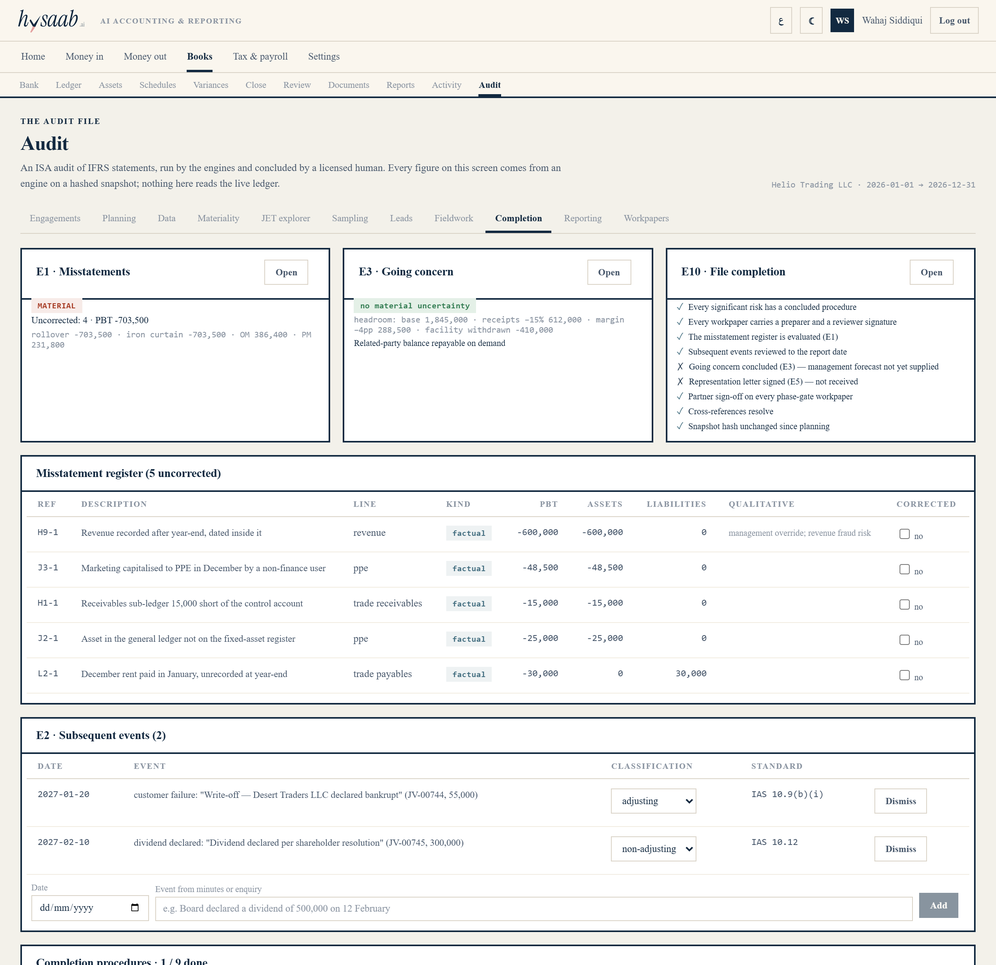
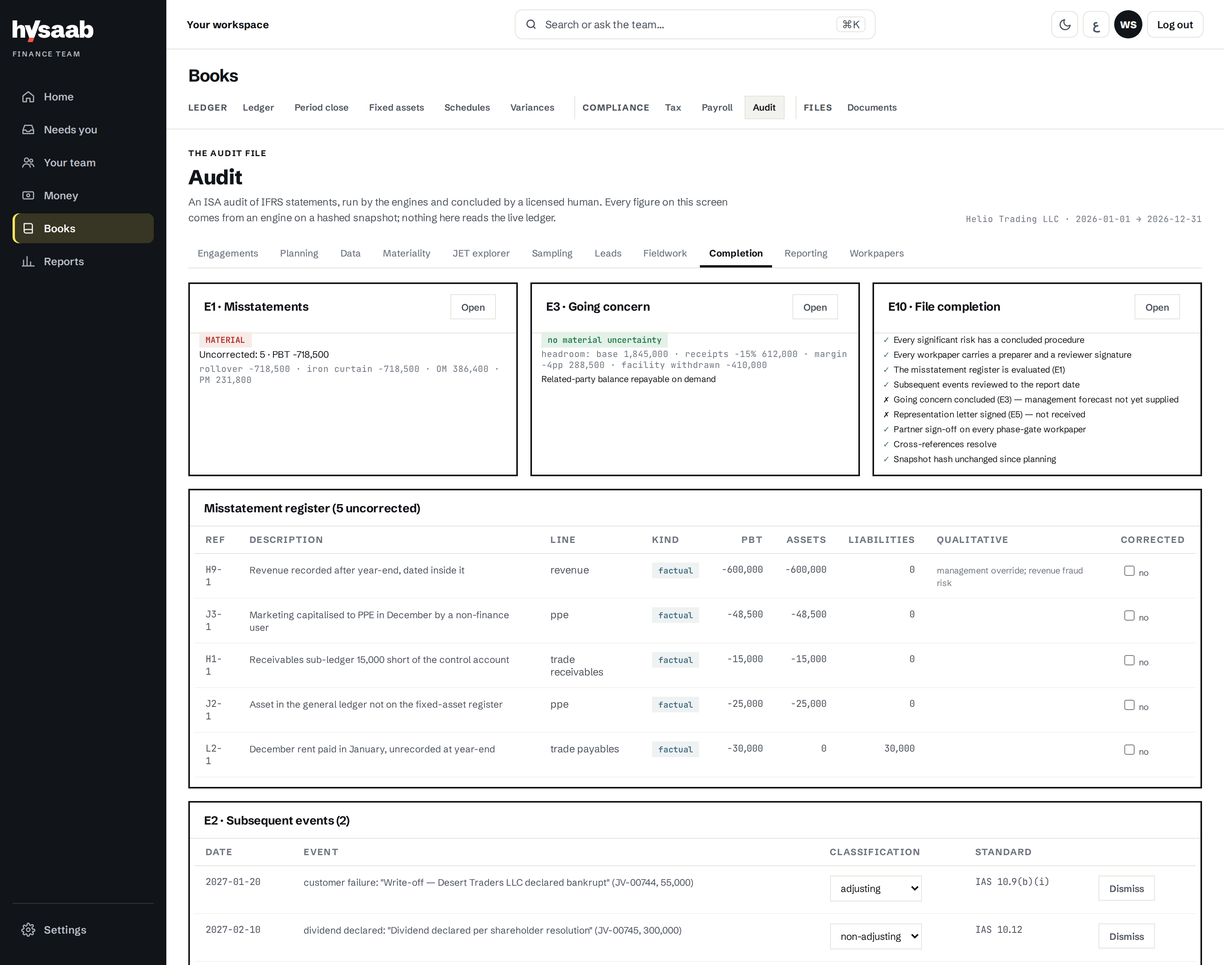
Product screenshots in Tick & Tie, invoice photo, independence wording (#3)
* Invoice photo in the chat, Practice screen reskinned, independence wording

- Homepage: Rashid's WhatsApp bubble showed a hatched "INV-4471 · photo"
  placeholder. It now shows a photo of the Gulf Technical Supplies tax
  invoice (public/home/inv-4471-photo.jpg), drawn from the Demo's own
  figures: 3,200 + 640 + 150 = 3,990.00, VAT 5% 199.50, total 4,189.50.
- p-practice.png: the Hysaab Practice firm overview in Tick & Tie (ink
  sidebar, highlighter accents, Hysaab Grotesk/Mono), same layout, labels
  and sample figures as before.
- /firms (en + ar): no longer says Practice and Audit share "the same
  clients, the same file room"; each keeps its own client records and the
  firm's independence rules decide who works on which client.

Claude-Session: https://claude.ai/code/session_01QfKEbqKpFncXbPW1S3saiE

* Product screenshots in Tick & Tie: audit, finance and captions

Every product capture on the site now shows the rebranded app (ink,
highlighter, Hysaab Grotesk/Mono), rendered from the app itself with its
built-in sample data:
- Audit (public/shots/audit-*.png, home/screens/p-audit-jet.png): the
  real audit module fed the Helio Trading demo engagement. /audit shot
  sizes updated. The completion card now agrees with its register (5
  uncorrected, PBT -718,500) and the planning gate no longer contradicts
  the approved risk register.
- Finance (home/screens 00-05, f-01..f-05, p-payables, p-close,
[…]

diff --git a/app/(en)/audit/page.tsx b/app/(en)/audit/page.tsx
@@ -31,7 +31,7 @@ const STEPS: {
       ["Sequence", <>Missing journal numbers are listed as gaps for the client to explain.</>],
       ["Hashed", <>SHA-256 on the snapshot. Every later figure cites the hash it came from.</>],
     ],
-    shot: { src: "/shots/audit-data.png", w: 2560, h: 1256, alt: "Hysaab Audit snapshots: the first pull marked STOP for a broken general-ledger roll-forward, the corrected pull marked complete, both with their SHA-256 hashes" },
+    shot: { src: "/shots/audit-data.png", w: 2940, h: 1256, alt: "Hysaab Audit snapshots: the first pull marked STOP for a broken general-ledger roll-forward, the corrected pull marked complete, both with their SHA-256 hashes" },
     bar: "Data · snapshots and integrity",
     cap: "The first snapshot stopped the file: the client's trial balance predated a journal in the ledger.",
   },
@@ -44,7 +44,7 @@ const STEPS: {
       ["Materiality", <>Computed from this year's figures, with every candidate benchmark shown and the choice explained.</>],
       ["The programme", <>Only the procedures that fit the chart are instantiated. No tax recompute where there is no tax account.</>],
     ],
-    shot: { src: "/shots/audit-planning.png", w: 2540, h: 2360, alt: "Hysaab Audit planning: phase strip, the B6 risk register with nine significant risks by line and assertion, and the planning procedures with their last run" },
+    shot: { src: "/shots/audit-planning.png", w: 2920, h: 2360, alt: "Hysaab Audit planning: phase strip, the B6 risk register with nine significant risks by line and assertion, and the planning procedures with their last run" },
     bar: "Planning · risk register and procedures",
     cap: "Nine significant risks, each with the factor that raised it. The gate stays shut until the partner approves.",
   },
@@ -57,7 +57,7 @@ const STEPS: {
       ["Thirty criteria", <>Post-close postings, round numbers, weekends and holidays, blank narratives, seldom-used accounts, keyword hits, duplicates, reversals, segregation conflicts, entries just below an approval threshold.</>],
       ["Auditable", <>Each row carries the criteria that flagged it. The selection is seeded, so it reproduces.</>],
     ],
-    shot: { src: "/shots/audit-jet.png", w: 2540, h: 2360, alt: "Hysaab Audit journal-entry testing: every journal scored against thirty criteria, stratified above performance materiality, scored and random, with the criteria hits and vouching result on each row" },
+    shot: { src: "/shots/audit-jet.png", w: 2920, h: 2360, alt: "Hysaab Audit journal-entry testing: every journal scored against thirty criteria, stratified above performance materiality, scored and random, with the criteria hits and vouching result on each row" },
     bar: "JET explorer · ISA 240 journal testing",
     cap: "The top rows are the planted ones: revenue booked after year-end, a suspense plug, a duplicate payment, a capitalised expense, a related-party fee.",
   },
@@ -70,7 +70,7 @@ const STEPS: {
       ["Attribute too", <>Control testing at ninety-five percent confidence with its own sample table.</>],
       ["Honest answer", <>An upper limit above performance materiality is reported as not accepted, not explained away.</>],
     ],
-    shot: { src: "/shots/audit-sampling.png", w: 2540, h: 2360, alt: "Hysaab Audit sampling workbench: monetary-unit sample design, the selection with top stratum and sampled items, audited values entered, and the evaluation with the upper misstatement limit" },
+    shot: { src: "/shots/audit-sampling.png", w: 2920, h: 2360, alt: "Hysaab Audit sampling workbench: monetary-unit sample design, the selection with top stratum and sampled items, audited values entered, and the evaluation with the upper misstatement limit" },
     bar: "Sampling · monetary-unit sample",
     cap: "Upper limit 563,355 against performance materiality 231,800. The engine calls it: not accepted.",
   },
@@ -83,7 +83,7 @@ const STEPS: {
       ["Reliability", <>Scored by route and sender domain. A forwarded reply is evidence of a different grade.</>],
       ["Sent by people", <>Letters leave the firm's own mailbox. The software drafts them and tracks them.</>],
     ],
-    shot: { src: "/shots/audit-fieldwork.png", w: 2540, h: 2360, alt: "Hysaab Audit fieldwork: the confirmation tracker with book and confirmed balances, reliability and status, and the information request list with owners, due dates and received status" },
+    shot: { src: "/shots/audit-fieldwork.png", w: 3120, h: 2360, alt: "Hysaab Audit fieldwork: the confirmation tracker with book and confirmed balances, reliability and status, and the information request list with owners, due dates and received status" },
     bar: "Fieldwork · confirmations and requests",
     cap: "One exception of 42,750, one reply routed through the client, one escalated to alternative procedures.",
   },
@@ -96,7 +96,7 @@ const STEPS: {
       ["Subsequent events", <>Post-period journals and minutes are scanned and classified adjusting or non-adjusting, with the IAS 10 reference.</>],
       ["File completion", <>Nine checks on the file itself. Two are still open on this engagement, and it says so.</>],
     ],
-    shot: { src: "/shots/audit-completion.png", w: 2540, h: 2460, alt: "Hysaab Audit completion: the misstatement register evaluated against materiality on both bases, going concern with stress headroom, file completion checks, and the subsequent events classified under IAS 10" },
+    shot: { src: "/shots/audit-completion.png", w: 3120, h: 2460, alt: "Hysaab Audit completion: the misstatement register evaluated against materiality on both bases, going concern with stress headroom, file completion checks, and the subsequent events classified under IAS 10" },
     bar: "Completion · the misstatement register",
     cap: "Five findings, four above clearly trivial, one aggregate the partner has to act on.",
   },
@@ -109,7 +109,7 @@ const STEPS: {
       ["Versions", <>Immutable. The reason for every new version is on the paper.</>],
       ["Conclusions", <>A reviewer cannot sign a judgement workpaper without recording a conclusion in their own words.</>],
     ],
-    shot: { src: "/shots/audit-workpapers.png", w: 2540, h: 2460, alt: "Hysaab Audit workpaper file: twenty-one workpapers with their review state, and the trade receivables lead schedule open with tick marks, the sub-ledger difference and an inconclusive conclusion" },
+    shot: { src: "/shots/audit-workpapers.png", w: 2920, h: 2460, alt: "Hysaab Audit workpaper file: twenty-one workpapers with their review state, and the trade receivables lead schedule open with tick marks, the sub-ledger difference and an inconclusive conclusion" },
     bar: "Workpapers · the audit file",
     cap: "The receivables lead is inconclusive because the sub-ledger is 15,000 short. It stays inconclusive until someone explains it.",
   },
@@ -270,7 +270,7 @@ export default function AuditPage() {
               <p className="hw-eyebrow">Where it sits</p>
               <h2>Part of the professional services stack.</h2>
             </div>
-            <p>Hysaab Audit can be bought on its own, or with <a href="/firms">Hysaab Practice</a>, our product for tax and advisory firms. Together they share the same clients, the same file room and the same rule that the AI proposes and a person decides.</p>
+            <p>Hysaab Audit can be bought on its own, or with <a href="/firms">Hysaab Practice</a>, our product for tax and advisory firms. Both follow the same rule: the AI proposes and a person decides. Each keeps its own client records, so your independence rules decide who works on which client.</p>
           </div>
           <div className="hw-cards">
             <article>

diff --git a/lib/home-moments.ts b/lib/home-moments.ts
@@ -84,11 +84,11 @@ export const MOMENTS: MomentDef[] = [
     tabBody: "If a treatment looks wrong, Hysaab explains the concern and recommends a better route.",
     title: "A colleague who asks you to think twice.",
     description: "When a coding falls below the confidence gate, a tax invoice fails the rules or a price creeps, Hysaab stops and brings it to you with its reasoning.",
-    caption: "Decisions required, sample data: a coding questioned against the supplier’s history, input VAT held until an invoice is corrected, and a price rise with no contract change on file.",
-    alt: "Hysaab decisions queue with four items: two missing periods for a recurring supplier, a coding below the confidence threshold where history suggests a different account, a tax invoice that omits the supplier TRN so input VAT is blocked, and a detected price increase. Each shows the agent, a confidence score and buttons to open the queue or the detail.",
+    caption: "The review queue, sample data: four decisions with the agent that raised each and its confidence, one open: input VAT held until the supplier corrects its invoice.",
+    alt: "Hysaab review queue with four decisions: two periods missing for a recurring supplier, a coding below the confidence threshold, tax invoice criteria not met, and price creep detected, each with its agent and confidence. The tax invoice decision is open: Almarai Catering INV-5512 omits the supplier TRN, so input VAT of AED 1,036 is blocked until corrected, with a box for the reviewer’s reasoning.",
     pending: "Workspace capture pending: the decisions queue.",
     focus: "f-03-second-opinion.png",
-    notice: "Notice a coding questioned against the supplier’s own history, and input VAT held until the invoice is corrected.",
+    notice: "Notice each decision carries the agent and its confidence, and the open one holds input VAT until the invoice is corrected.",
   },
   {
     key: "record", num: "04", file: "04-app-journal-why.png", channel: WORKSPACE,
@@ -105,14 +105,14 @@ export const MOMENTS: MomentDef[] = [
   {
     key: "position", num: "05", file: "05-app-position.png", channel: WORKSPACE,
     tabTitle: "See where you stand.",
-    tabBody: "Ask in plain words, or read cash, payables, receivables, VAT and runway at a glance.",
+    tabBody: "Ask the team in plain words, or read cash, decisions and bills due at a glance.",
     title: "The picture, in plain words.",
-    description: "The Today screen opens with a question box and the position that matters: cash, working capital, revenue, payables due, overdue receivables, VAT, runway and burn.",
-    caption: "The Today screen, sample data: the plain-language question box and the eight position tiles.",
-    alt: "Hysaab Today screen: a box asking “What do you want to know?” with suggested questions, above eight tiles for cash position, net working capital, revenue month to date, payables due in 30 days, receivables overdue, VAT position, runway and net burn.",
-    pending: "Workspace capture pending: the Today screen.",
+    description: "Home opens on what needs you: cash, the decisions waiting and the bills due, then where the month’s cash came from and went.",
+    caption: "The Home screen, sample data: cash, decisions and bills due in 30 days, and June’s cash: AED 612k in, AED 442k out.",
+    alt: "Hysaab Home screen: tiles for cash of AED 1.4m, up 14% on last month, four decisions with two critical, and AED 216k due in 30 days with two bills overdue; below, a chart of June from AED 1.23m at the start, AED 612k in and AED 442k out, to AED 1.4m now.",
+    pending: "Workspace capture pending: the Home screen.",
     focus: "f-05-position.png",
-    notice: "Notice the position tiles: cash, working capital, revenue and payables due, each with its context line.",
+    notice: "Notice the three tiles: cash, what needs you and what falls due, each with its context line.",
   },
 ];
 

diff --git a/app/ar/how-it-works/page.tsx b/app/ar/how-it-works/page.tsx
@@ -96,8 +96,8 @@ const SCREENS = [
     p: "حين ينزل الترميز دون بوابة الثقة، أو تخفق فاتورة ضريبية في القواعد، أو يرتفع سعر مورد بلا تغيير في العقد المحفوظ، يتوقف Hysaab ويأتيك بالأمر. يخبرك بما تقوله سياستك ويطلب منك أن تقرر.",
     ticks: ["كل قرار يسمّي الشاغل والدليل", "مسار موصى به، لا تصحيح صامت", "إجابتك تُسجَّل مع القيد الذي تؤثر فيه"],
     file: "03-app-second-opinion.png", title: "قرارات مطلوبة",
-    alt: "قائمة القرارات في Hysaab وفيها أربعة بنود: فترات ناقصة لمورد متكرر، وترميز دون حد الثقة حيث يشير السجل إلى حساب مختلف، وفاتورة ضريبية تغفل رقم التسجيل الضريبي للمورد فتُحظر ضريبة المدخلات، وزيادة سعر مكتشفة. يعرض كل بند درجة ثقة وأزرارًا لفتح القائمة أو التفاصيل. بيانات تجريبية.",
-    caption: "قرارات مطلوبة، بيانات تجريبية: ترميز موضع تساؤل، وضريبة مدخلات محتجزة حتى تُصحَّح الفاتورة، وزيادة سعر بلا تغيير في العقد المحفوظ.",
+    alt: "قائمة المراجعة في Hysaab وفيها أربعة قرارات: فترات ناقصة لمورد متكرر، وترميز دون حد الثقة، وفاتورة ضريبية لا تستوفي المعايير، وزيادة سعر، لكل منها وكيلها ودرجة ثقتها. القرار المفتوح: فاتورة ألمراعي INV-5512 تغفل رقم التسجيل الضريبي للمورد، فتُحظر ضريبة مدخلات قدرها 1,036 درهمًا حتى التصحيح. بيانات تجريبية.",
+    caption: "قائمة المراجعة، بيانات تجريبية: أربعة قرارات لكل منها وكيلها ودرجة ثقتها؛ والقرار المفتوح يحتجز ضريبة المدخلات حتى تُصحَّح الفاتورة.",
   },
   {
     eyebrow: "الخطوتان 08 و09 / على الشاشة",
@@ -105,8 +105,8 @@ const SCREENS = [
     p: "الاستحقاقات المقترحة تجلس بجانب أساسها. قائمة تحقق تغطي جانب Hysaab من الإقفال وأخرى تغطي جانب دفترك. والقفل مشروط، وينتظرك أنت.",
     ticks: ["الاستحقاقات تُقترح مع أساسها، وتوافق عليها أنت", "قائمة تحقق لكل جانب من الإقفال", "قفل الفترة يضغطه شخص"],
     file: "p-close.png", title: "لوحة الإقفال",
-    alt: "لوحة الإقفال في Hysaab: استحقاقات متكررة مقترحة مع أساسها ومبلغها، وقائمة تحقق بما يشغّله Hysaab، وقائمة تحقق لجانب دفتر الأستاذ، وزر إقفال الفترة وقفلها. بيانات تجريبية.",
-    caption: "لوحة الإقفال، بيانات تجريبية: الاستحقاقات المقترحة وقائمتا التحقق والقفل المشروط.",
+    alt: "لوحة الإقفال في Hysaab: استحقاقات متكررة مقترحة مع أساسها ومبلغها، وقائمة تحقق لجانب دفتر الأستاذ، وزر إقفال الفترة وقفلها خلف بوابتها. بيانات تجريبية.",
+    caption: "لوحة الإقفال، بيانات تجريبية: الاستحقاقات المقترحة وقائمة تحقق دفتر الأستاذ والقفل المشروط.",
   },
 ];
 

diff --git a/app/ar/accounting/page.tsx b/app/ar/accounting/page.tsx
@@ -41,8 +41,8 @@ const MODULES = [
     p: "تُصاغ رسائل التذكير ضمن وتيرة تحصيل تحددها مرة واحدة، ولا يُرسل شيء قبل موافقتك. أعمار الديون ووعود السداد والتعرض للمخصصات على شاشة واحدة، مقيسة وفق سياستك أنت.",
     ticks: ["أعمار الديون والخطوة التالية لكل فاتورة مفتوحة", "المخصصات تتبع السلّم الذي حددته", "كشوف حساب العملاء تُطابَق مع دفاترك"],
     file: "p-receivables.png", title: "الذمم المدينة",
-    alt: "شاشة الذمم المدينة في Hysaab: بطاقات للذمم المفتوحة والمستحقة والمتأخرة والمعرّضة للخطر، ورسم لأعمار الديون، ومخاطر الشطب والمخصصات، وجدول بالفواتير مع أعمارها وحالتها والخطوة التالية. بيانات تجريبية.",
-    caption: "الذمم المدينة، بيانات تجريبية: أعمار الديون والمخصصات وخطوة التحصيل التالية لكل فاتورة.",
+    alt: "الذمم المدينة في Hysaab: كل فاتورة غير مسددة مع العميل وتاريخ الإصدار والمبلغ وفئة العمر والحالة وخطوة التحصيل التالية، بجانب خانة كشوف حساب العملاء. بيانات تجريبية.",
+    caption: "الذمم المدينة، بيانات تجريبية: أعمار الديون والحالة وخطوة التحصيل التالية لكل فاتورة.",
   },
   {
     n: "03", name: "دفتر الأستاذ",
@@ -59,8 +59,8 @@ const MODULES = [
     p: "تعرض لوحة الإقفال ما أنجزه Hysaab، وما لا يزال مفتوحًا، وما يحتاج إلى شخص. تُقترح الاستحقاقات مع أساسها لتوافق عليها. وحين تكون البوابات خالية تقفل الفترة أنت، ويسري القفل على الجميع، بما في ذلك Hysaab.",
     ticks: ["الاستحقاقات تُقترح مع أساسها، وتوافق عليها أنت", "قائمة تحقق لجانب Hysaab وأخرى لجانب دفترك", "قفل الفترة زرٌّ تضغطه أنت"],
     file: "p-close.png", title: "لوحة الإقفال",
-    alt: "لوحة الإقفال في Hysaab: استحقاقات متكررة مقترحة مع أساسها ومبلغها، وقائمة تحقق بما يشغّله Hysaab، وقائمة تحقق لجانب دفتر الأستاذ، وزر إقفال الفترة وقفلها. بيانات تجريبية.",
-    caption: "لوحة الإقفال، بيانات تجريبية: الاستحقاقات المقترحة وقائمتا التحقق والقفل المشروط.",
+    alt: "لوحة الإقفال في Hysaab: استحقاقات متكررة مقترحة مع أساسها ومبلغها، وقائمة تحقق لجانب دفتر الأستاذ، وزر إقفال الفترة وقفلها خلف بوابتها. بيانات تجريبية.",
+    caption: "لوحة الإقفال، بيانات تجريبية: الاستحقاقات المقترحة وقائمة تحقق دفتر الأستاذ والقفل المشروط.",
   },
   {
     n: "05", name: "المستندات",

diff --git a/app/(en)/how-it-works/page.tsx b/app/(en)/how-it-works/page.tsx
@@ -95,8 +95,8 @@ const SCREENS = [
     p: "When a coding falls below the confidence gate, a tax invoice fails the rules or a supplier’s price rises with no contract change on file, Hysaab stops and brings it to you. It tells you what your policy says and asks you to make the call.",
     ticks: ["Each decision names the concern and the evidence", "A recommended route, not a silent correction", "Your answer is recorded with the entry it affects"],
     file: "03-app-second-opinion.png", title: "Decisions required",
-    alt: "Hysaab decisions queue with four items: missing periods for a recurring supplier, a coding below the confidence threshold where history suggests a different account, a tax invoice that omits the supplier TRN so input VAT is blocked, and a detected price increase. Each shows a confidence score and buttons to open the queue or the detail.",
-    caption: "Decisions required, sample data: a coding questioned, input VAT held until an invoice is corrected, and a price rise with no contract change on file.",
+    alt: "Hysaab review queue with four decisions: missing periods for a recurring supplier, a coding below the confidence threshold, tax invoice criteria not met, and price creep, each with its agent and confidence. The open decision: Almarai Catering INV-5512 omits the supplier TRN, so input VAT of AED 1,036 is blocked until corrected.",
+    caption: "The review queue, sample data: four decisions, each with its agent and confidence; the open one holds input VAT until the invoice is corrected.",
   },
   {
     eyebrow: "Steps 08 and 09 / On screen",
@@ -104,8 +104,8 @@ const SCREENS = [
     p: "Proposed accruals sit beside their basis. One checklist covers Hysaab’s side of the close and another covers your ledger’s side. The lock is gated, and it waits for you.",
     ticks: ["Accruals proposed with their basis, approved by you", "A checklist for each side of the close", "The period lock is pressed by a person"],
     file: "p-close.png", title: "Close cockpit",
-    alt: "Hysaab close cockpit: proposed recurring accruals with basis and amount, a checklist of what Hysaab runs, a checklist for the ledger’s side, and the button to close and lock the period.",
-    caption: "The close cockpit, sample data: proposed accruals, both checklists and the gated lock.",
+    alt: "Hysaab close cockpit: proposed recurring accruals with basis and amount, the ledger’s side checklist, and the button to close and lock the period behind its gate.",
+    caption: "The close cockpit, sample data: proposed accruals, the ledger’s checklist and the gated lock.",
   },
 ];
 

diff --git a/app/(en)/accounting/page.tsx b/app/(en)/accounting/page.tsx
@@ -45,8 +45,8 @@ const MODULES = [
     p: "Reminders are drafted inside a collections cadence you set once, and nothing sends until you approve it. Ageing, promises to pay and provision exposure sit on one screen, measured against your own policy.",
     ticks: ["Ageing and the next step for every open invoice", "Provisioning follows the ladder you set", "Customer statements are reconciled against your books"],
     file: "p-receivables.png", title: "Receivables",
-    alt: "Hysaab receivables screen: tiles for open, due, past-due and at-risk receivables, an ageing chart, write-off risk and provisioning, and a table of invoices with ageing, status and next step.",
-    caption: "Receivables, sample data: ageing, provisioning and the next collection step for each invoice.",
+    alt: "Hysaab receivables: every invoice still owed with customer, issue date, amount, ageing band, status and next collection step, beside the customer statements drop.",
+    caption: "Receivables, sample data: ageing, status and the next collection step for each invoice.",
   },
   {
     n: "03", name: "Ledger",
@@ -63,8 +63,8 @@ const MODULES = [
     p: "The close cockpit shows what Hysaab has done, what is still open and what needs a person. Accruals are proposed with their basis for you to approve. When the gates are clear you lock the period, and the lock applies to everyone, Hysaab included.",
     ticks: ["Accruals proposed with their basis, approved by you", "A checklist for Hysaab’s side and for your ledger’s side", "The period lock is yours to press"],
     file: "p-close.png", title: "Close cockpit",
-    alt: "Hysaab close cockpit: proposed recurring accruals with basis and amount, a checklist of what Hysaab runs, a checklist for the ledger’s side, and the button to close and lock the period.",
-    caption: "The close cockpit, sample data: proposed accruals, both checklists and the gated lock.",
+    alt: "Hysaab close cockpit: proposed recurring accruals with basis and amount, the ledger’s side checklist, and the button to close and lock the period behind its gate.",
+    caption: "The close cockpit, sample data: proposed accruals, the ledger’s checklist and the gated lock.",
   },
   {
     n: "05", name: "Documents",

diff --git a/app/ar/page.tsx b/app/ar/page.tsx
@@ -78,9 +78,9 @@ const PRODUCTS: { status: string; name: string; desc: string; line: string; href
 const AR_NOTICE: Record<string, string> = {
   intake: "لاحظ عمود القناة، واتساب والبريد جنبًا إلى جنب، ونتيجة كل مستند، ومنها فاتورة أُوقفت لأنها لم تجتز اختبار الفاتورة الضريبية.",
   coded: "لاحظ الحساب المقترح لكل فاتورة مع درجة الثقة والسجل، ونتيجة اختبار الفاتورة الضريبية بجانبه.",
-  challenge: "لاحظ ترميزًا جرى التشكيك فيه استنادًا إلى سجل المورد نفسه، وضريبة مدخلات أُوقفت حتى تُصحَّح الفاتورة.",
+  challenge: "لاحظ أن كل قرار يحمل الوكيل الذي أثاره ودرجة ثقته، وأن القرار المفتوح يوقف ضريبة المدخلات حتى تُصحَّح الفاتورة.",
   record: "لاحظ قيدًا مفتوحًا على تعليقه، والمطابقة مع إجمالي الفاتورة، والمستندات المرفقة.",
-  position: "لاحظ بطاقات المركز المالي: النقد ورأس المال العامل والإيراد والذمم الدائنة المستحقة، ولكل منها سطر سياق.",
+  position: "لاحظ البطاقات الثلاث: النقد، وما ينتظرك، وما يستحق الدفع، ولكل منها سطر سياق.",
 };
 const AR_TITLE: Record<string, string> = {
   intake: "أرسله.",

diff --git a/app/(en)/page.tsx b/app/(en)/page.tsx
@@ -192,7 +192,7 @@ export default function Page() {
               <div className="tt-chat" aria-label="Example WhatsApp exchange, illustrative" data-reveal="">
                 <div className="tt-chat-h"><span>WhatsApp · Hysaab</span><span>21:00</span></div>
                 <div className="tt-chat-b">
-                  <div className="tt-bub tt-bub--me"><div className="tt-photo">INV-4471 · photo</div>Gulf Technical invoice for the Dubai office<span className="tt-meta">Rashid · 21:00</span></div>
+                  <div className="tt-bub tt-bub--me"><img className="tt-photo" src="/home/inv-4471-photo.jpg" width={880} height={660} alt="Photo of Gulf Technical Supplies tax invoice INV-4471, 12 Sep 2026: AED 3,990.00 plus VAT 199.50, total AED 4,189.50. Sample document." loading="lazy" />Gulf Technical invoice for the Dubai office<span className="tt-meta">Rashid · 21:00</span></div>
                   <div className="tt-bub tt-bub--hy">Got it. Reading now.
                     <span className="tt-bub-r"><Tm m="✓" />Tax invoice · TRN valid</span>
                     <span className="tt-bub-r"><Tm m="T" />IT equipment · Dubai office · 96%</span>

diff --git a/app/tick-tie.css b/app/tick-tie.css
@@ -94,7 +94,9 @@ html[dir="rtl"] .tt-strip-track { animation-direction: reverse; }
 .tt-meta { display: block; font: 400 11px var(--hw-mono); opacity: 0.7; margin-top: 6px; }
 .tt-bub-r { display: flex; gap: 8px; align-items: center; margin-top: 4px; }
 .tt-bub--hy .tt-tm { color: var(--hw-blush); font-size: 19px; }
-.tt-photo { height: 84px; border: 1px dashed #C9B24A; display: grid; place-items: center; font: 400 11.5px var(--hw-mono); color: var(--hw-supporting); margin-bottom: 8px; background: repeating-linear-gradient(-45deg, transparent 0 8px, rgba(201, 178, 74, 0.18) 8px 9px); }
+/* Rashid's WhatsApp photo of INV-4471 (public/home/inv-4471-photo.jpg, a sample
+   document drawn from the Demo figures: 3,990.00 + VAT 199.50 = 4,189.50). */
+.tt-photo { display: block; width: 100%; height: auto; aspect-ratio: 4 / 3; object-fit: cover; margin-bottom: 8px; border: 1px solid rgba(17, 20, 24, 0.12); }
 
 /* ── audit trail ── */
 .tt-trail { margin-top: 48px; border-top: 2px solid var(--hw-ink); overflow-x: auto; background: var(--hw-cream); }

diff --git a/app/ar/firms/page.tsx b/app/ar/firms/page.tsx
@@ -135,7 +135,7 @@ export default function PracticePage() {
               <p className="hw-eyebrow">Hysaab Audit</p>
               <h2>إن كنت توقّع آراء التدقيق،<br /><span>فالملف يعمل هنا أيضًا.</span></h2>
             </div>
-            <p>بُني Hysaab Audit على العملاء أنفسهم وغرفة الملفات نفسها والقاعدة نفسها: المحركات تحسب، وشخص مرخّص يستنتج. اشترِه وحده أو مع Hysaab Practice.</p>
+            <p>يتبع Hysaab Audit القاعدة نفسها: المحركات تحسب، وشخص مرخّص يستنتج. اشترِه وحده أو مع Hysaab Practice. لكلٍّ منهما سجلات عملائه الخاصة، وقواعد الاستقلالية في مكتبك تحدد من يعمل على أي عميل.</p>
           </div>
           <div className="hw-cards">
             <article>

diff --git a/app/(en)/firms/page.tsx b/app/(en)/firms/page.tsx
@@ -166,7 +166,7 @@ export default function PracticePage() {
               <p className="hw-eyebrow">Hysaab Audit</p>
               <h2>If you sign audit opinions,<br /><span>the file runs here too.</span></h2>
             </div>
-            <p>Hysaab Audit is built on the same clients, the same file room and the same rule: the engines compute, a licensed human concludes. Buy it on its own or with Hysaab Practice.</p>
+            <p>Hysaab Audit follows the same rule: the engines compute, a licensed human concludes. Buy it on its own or with Hysaab Practice. Each keeps its own client records, so your independence rules decide who works on which client.</p>
           </div>
           <div className="hw-cards">
             <article>
